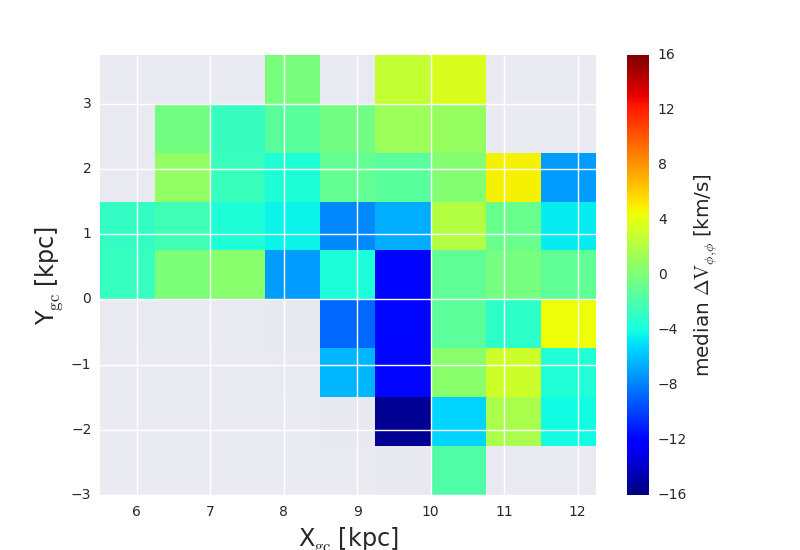
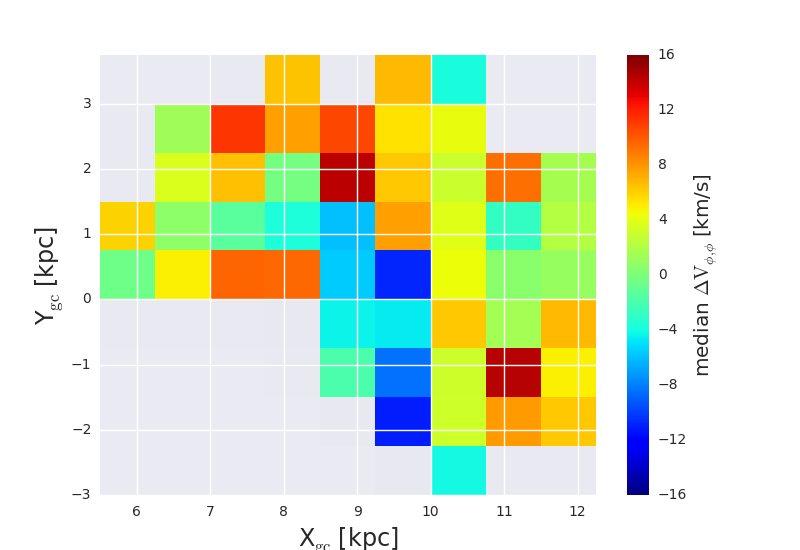
Made rotation curve calculation for all stars in survey area

Changed region(s): [[0.125, 0.0927, 0.75, 0.9273]]

diff --git a/run1_eris.py b/run1_eris.py
@@ -21,7 +21,7 @@ import pynbody
 from scipy import interpolate as interpolate
 from matplotlib import pyplot as plt
 import pyfits
-#import decomp
+import decomp
 import sys
 
 
@@ -59,12 +59,15 @@ def gcCoords(obsDataDict, sim, sunpos):
         print("Data missing from Dictionary.\nMake sure object has l,b,d2,d3 with correct naming.")
 
 originalsim = st.load_faceon(400, config.params)
-## Let's just look at subSim centered on disk
-tmin = (originalsim['tform']>9.3) 
-tmax = (originalsim['tform']<12.32)
 radmax = (originalsim['r']<40.0)
+#Making copy of sim to compute rotation curve later
+decomp.decomp(originalsim, config)
+dcvals = (originalsim['decomp']==1) #just picking up thin disk right now
+rotcurve_sim = originalsim.__deepcopy__()[radmax & dcvals]
+## Let's just look at subSim centered on disk
+tmin = (originalsim['tform']>10.3)
+tmax = (originalsim['tform']<12.82)
 subs = originalsim.__deepcopy__()[tmin & tmax & radmax ]
-#subs = originalsim.__deepcopy__()[(originalsim['r']<40.0)]
 cpos = pynbody.analysis.halo.hybrid_center(subs, r='12 kpc')
 subs['pos']-=cpos
 vcen = pynbody.analysis.halo.vel_center(subs, retcen=True, cen_size='29 kpc')
@@ -84,16 +87,29 @@ for i in gcDict.keys():
     dfObsDataCoords[i] = pd.Series(gcDict[i], index=dfObsDataCoords.index)
 
 #MIDPLANE for simulation and observed data
-dfzcut = dfObsDataCoords[(np.abs(sim['z']) < 0.25)] #& (np.abs(np.asarray(dfObsDataCoords['b']))<1.5)]
-subSim = sim[np.asarray(np.abs(sim['z']) < 0.25)] #& (np.abs(np.asarray(dfObsDataCoords['b']))<1.5)]
+dfzcut = dfObsDataCoords[(np.abs(sim['z']) < 0.25) & (np.abs(np.asarray(dfObsDataCoords['b']))<1.5)]
+subSim = sim[np.asarray(np.abs(sim['z']) < 0.25) & (np.abs(np.asarray(dfObsDataCoords['b']))<1.5)]
+
+#Above is for the mock RC samplem, below we include all 'thin disk' stars to
+#pick up the median(or pehaps, mean) rotation velocity of the disk
+#applying same rotation/translation of RC sample to full think disk sample
+
+rotcurve_sim['pos'] -= cpos
+rotcurve_sim['vel'] -= vcen
+pynbody.transformation.transform(rotcurve_sim, trans)
+rc_sim = rotcurve_sim[pynbody.filt.Disc('17 kpc', '0.25 kpc')]
+rc_osim = ss.ObsSim(rc_sim, 0.0,-8.0)
+rc_obsdata = ss.lbdrv(rc_sim['pos'], rc_sim['vel'], rc_osim.sunpos)
 
 #BUILD UP ROTATION CURVE
-galcutout_rotcuve = (np.asarray(dfzcut['l'])>30.0) & (np.asarray(dfzcut['l'])<210.0) \
-        & (np.asarray(dfzcut['d2'])<5.0) & (np.abs(np.asarray(dfzcut['b']))<1.5)
+galcutout_rotcuve = (np.asarray(rc_obsdata['l'])>30.0) & (np.asarray(rc_obsdata['l'])<230.0) \
+        & (np.asarray(rc_obsdata['d2'])<5.0) & (np.abs(np.asarray(rc_obsdata['b']))<1.5)
 
+galcutout_rotcuve = (np.asarray(rc_obsdata['l'])>30.0) & (np.asarray(rc_obsdata['l'])<210.0) \
+        & (np.asarray(rc_obsdata['d2'])<5.0)
 
 #Divide galaxy cutouf into bins
-sim_rotcurve = subSim[galcutout_rotcuve]
+sim_rotcurve = rc_sim[galcutout_rotcuve]
 
 radbins = np.linspace(4.0,16.5,25)
 radinds = np.digitize(sim_rotcurve['rxy'], radbins)
@@ -102,6 +118,8 @@ uniqueinds = range(1,len(radbins)) #avoids last and first bins
 
 medvcxy = np.array([np.median(sim_rotcurve['vcxy'][(radinds==radialID)]) for radialID in uniqueinds]) 
 medvrxy = np.array([np.median(sim_rotcurve['vrxy'][(radinds==radialID)]) for radialID in uniqueinds]) 
+#medvcxy = np.array([np.mean(sim_rotcurve['vcxy'][(radinds==radialID)]) for radialID in uniqueinds]) 
+#medvrxy = np.array([np.mean(sim_rotcurve['vrxy'][(radinds==radialID)]) for radialID in uniqueinds]) 
 radmask = ~np.isnan(medvcxy)
 
 vcxyRfit = interpolate.InterpolatedUnivariateSpline(rbins[radmask], medvcxy[radmask])
@@ -130,8 +148,8 @@ rgc = subSim['rxy']
 dfzcut['rgc'] = pd.Series(np.asarray(rgc), index = dfzcut.index)
 deltaVr = subSim['vrxy'] - vrxyRfit(subSim['rxy'])
 deltaVt = subSim['vcxy'] - vcxyRfit(subSim['rxy'])
-####deltaVlos = dfzcut['rv']/np.cos(np.radians(dfzcut.b)) - (vrxyRfit(rgc)*np.cos(np.pi - np.radians(dfzcut.l + dfzcut.az)) + vcxyRfit(rgc)*np.sin(np.radians(dfzcut.l + dfzcut.az)))
-deltaVlos = dfzcut['rv']/np.cos(np.radians(dfzcut.b)) - (vrxyRfit(subSim['rxy'])*np.cos(np.pi - np.radians(dfzcut.l + dfzcut.az)) - vcxyRfit(subSim['rxy'])*np.sin(np.radians(dfzcut.l + dfzcut.az)))
+deltaVlos = dfzcut['rv']/np.cos(np.radians(dfzcut.b)) - (vrxyRfit(rgc)*np.cos(np.pi - np.radians(dfzcut.l + dfzcut.az)) + vcxyRfit(rgc)*np.sin(np.radians(dfzcut.l + dfzcut.az)))
+#deltaVlos = dfzcut['rv']/np.cos(np.radians(dfzcut.b)) - (vrxyRfit(subSim['rxy'])*np.cos(np.pi - np.radians(dfzcut.l + dfzcut.az)) - vcxyRfit(subSim['rxy'])*np.sin(np.radians(dfzcut.l + dfzcut.az)))
 
 dfzcut['deltaVr'] = pd.Series(np.asarray(deltaVr), index = dfzcut.index)
 dfzcut['deltaVt'] = pd.Series(np.asarray(deltaVt), index = dfzcut.index)
@@ -166,65 +184,34 @@ cb = plt.colorbar(im)
 cb.set_label(r'median $\Delta\mathrm{V}_{\phi,\phi}$ [km/s]', fontsize = 'large')
 plotlabel(ax)
 plt.savefig('vt_map.png', format='png')
-sys.exit()
+del fig,ax
 
-hist1d[~emptybinMask] = np.asarray(medDeltaVt)
-deltaV2map = hist1d.reshape(nbinsx,nbinsy)
-
-fig2 = plt.figure()
-ax2 = fig2.add_subplot(111)
-im2 = ax2.imshow(deltaV2map.T, aspect='auto',  interpolation='none', extent=[extentx[0], extentx[1], extenty[0], extenty[1]], cmap=cmapp, origin='lower', vmax=minmax_cm, vmin=-minmax_cm)
-
-histres = np.histogram2d(np.asarray(subSim['x']), np.asarray(subSim['y']), bins=[binsx,binsy], range=[extentx, extenty])
-hist1d = np.ravel(histres[0])
-emptybinMask = hist1d == 0   # where are there NO stars, can later update for minimum star #
-
-
-
-
-hist1d[emptybinMask] = np.nan # set the emptpy bins not to be plotted
-hist1d[~emptybinMask] = np.asarray(medDeltaVr)
-
-
-minmax_cm = 16 #N used for vmax, vmin
-cmapp = 'Spectral'
-deltaVmap = hist1d.reshape(nbinsx,nbinsy)
+#DeltaVr
 fig = plt.figure()
 ax = fig.add_subplot(111)
-im = ax.imshow(deltaVmap.T, aspect='auto',  interpolation='none', extent=[extentx[0], extentx[1], extenty[0], extenty[1]], cmap=cmapp, origin='lower', vmax=minmax_cm, vmin=-minmax_cm)
+deltaV = medDeltaVr.reshape(histshape)
+deltaV[rcmask] = np.nan
+im = ax.imshow(deltaV.T, aspect='auto',  interpolation='none', \
+        extent=[rangex[0], rangex[1], rangey[0], rangey[1]], cmap=cmapp, \
+        origin='lower', vmax=minmax_cm, vmin=-minmax_cm)
  
 cb = plt.colorbar(im)
 cb.set_label(r'median $\Delta\mathrm{V}_{\mathrm{r,r}}$ [km/s]', fontsize = 'large')
 plotlabel(ax)
-plt.savefig('vrmap.png', format='png')
+plt.savefig('vr_map.png', format='png')
+del fig,ax
 
-
-hist1d[~emptybinMask] = np.asarray(medDeltaVt)
-deltaV2map = hist1d.reshape(nbinsx,nbinsy)
-
-fig2 = plt.figure()
-ax2 = fig2.add_subplot(111)
-im2 = ax2.imshow(deltaV2map.T, aspect='auto',  interpolation='none', extent=[extentx[0], extentx[1], extenty[0], extenty[1]], cmap=cmapp, origin='lower', vmax=minmax_cm, vmin=-minmax_cm)
-
-cb2 = plt.colorbar(im2)
-
-cb2.set_label(r'median $\Delta\mathrm{V}_{\phi,\phi}$ [km/s]', fontsize = 'large')
-plotlabel(ax2)
-plt.savefig('vtmap.png', format='png')
-#plt.show()
-
-hist1d[~emptybinMask] = np.asarray(medDeltaVlos)
-deltaV3map = hist1d.reshape(nbinsx,nbinsy)
-
-fig3 = plt.figure()
-ax3 = fig3.add_subplot(111)
-im3 = ax3.imshow(deltaV3map.T, aspect='auto',  interpolation='none', extent=[extentx[0], extentx[1], extenty[0], extenty[1]], cmap=cmapp, origin='lower', vmax=minmax_cm, vmin=-minmax_cm)
-
-cb3 = plt.colorbar(im3)
-
-cb3.set_label(r'median $\Delta\mathrm{V}_{\mathrm{los}, \phi; \mathrm{r}}$ [km/s]', fontsize = 'large')
-plotlabel(ax3)
-plt.savefig('vlosmap.png', format='png')
-#plt.show()
-
-
+#DeltaVlos
+fig = plt.figure()
+ax = fig.add_subplot(111)
+deltaV = medDeltaVlos.reshape(histshape)
+deltaV[rcmask] = np.nan
+im = ax.imshow(deltaV.T, aspect='auto',  interpolation='none', \
+        extent=[rangex[0], rangex[1], rangey[0], rangey[1]], cmap=cmapp, \
+        origin='lower', vmax=minmax_cm, vmin=-minmax_cm)
+ 
+cb = plt.colorbar(im)
+cb.set_label(r'median $\Delta\mathrm{V}_{\mathrm{los}, \phi; \mathrm{r}}$ [km/s]', fontsize = 'large')
+plotlabel(ax)
+plt.savefig('vlos_map.png', format='png')
+del fig,ax
